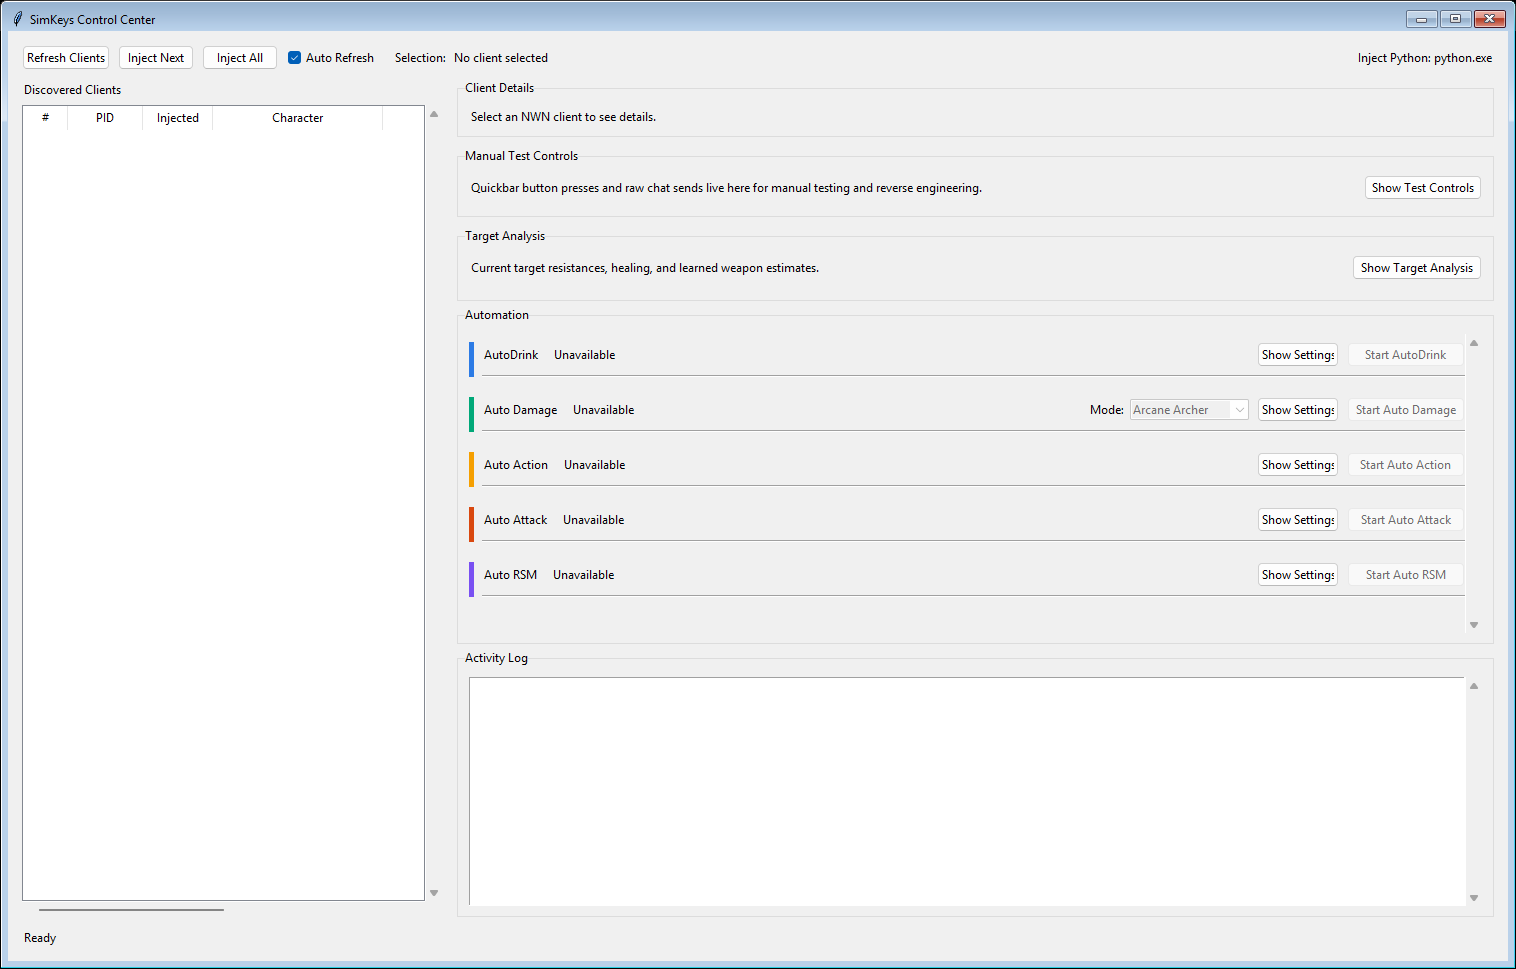
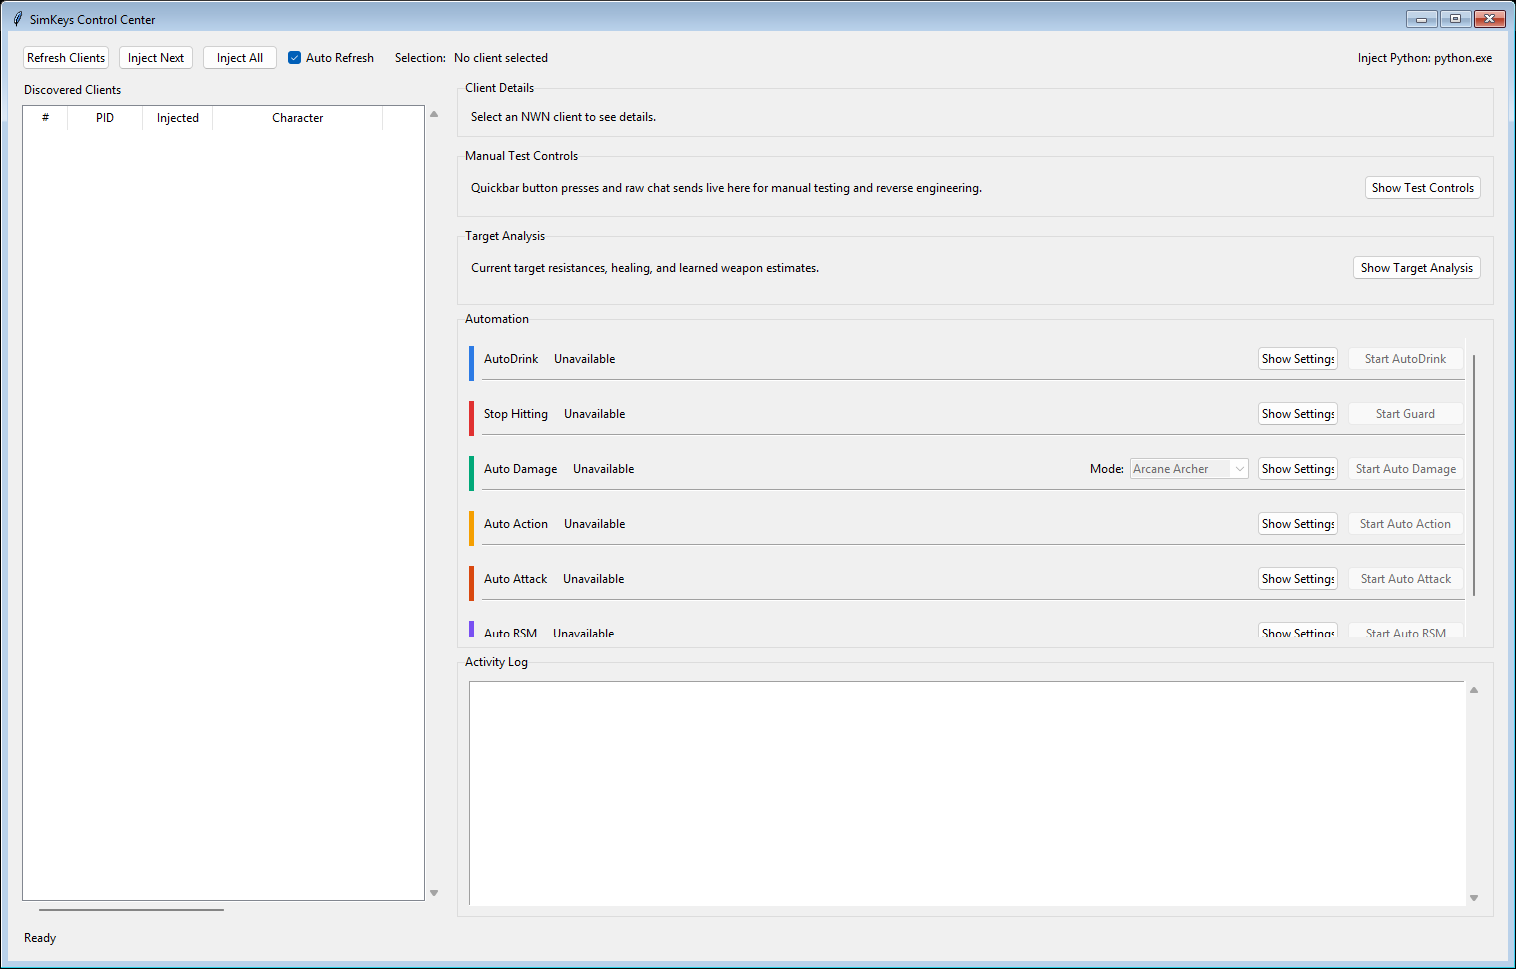
Add stop-hitting automation for area-kickback targets

diff --git a/src/simkeys_app/simkeys_script_host.py b/src/simkeys_app/simkeys_script_host.py
@@ -442,6 +442,174 @@ class AutoDrinkScript(ClientScriptBase):
         threading.Thread(target=clear_after_delay, name=f"AutoDrinkCooldown-{self.client.pid}", daemon=True).start()
 
 
+class StopHittingScript(ClientScriptBase):
+    script_id = "stop_hitting"
+
+    def __init__(self, client, config: Dict[str, object], host):
+        super().__init__(client, config, host)
+        self.db = hgx_data.load_default_database()
+        self.enabled = False
+        self.interrupting = False
+        self.interrupt_generation = 0
+        self.identity_wait_logged = False
+        self.unknown_targets: Set[str] = set()
+        self.protected_hits = 0
+        self.last_target = ""
+        self.last_damage_summary = ""
+        self.last_ignored_actor = ""
+
+    def on_start(self):
+        super().on_start()
+        self.enabled = True
+        self.interrupting = False
+        self.interrupt_generation = 0
+        self.identity_wait_logged = False
+        self.unknown_targets = set()
+        self.protected_hits = 0
+        self.last_target = ""
+        self.last_damage_summary = ""
+        self.last_ignored_actor = ""
+        self.set_status("Armed")
+        self.host.emit("info", f"{self.client.display_name}: Stop Hitting started", script_id=self.script_id)
+
+    def on_stop(self):
+        super().on_stop()
+        self.enabled = False
+        self.interrupting = False
+        self.interrupt_generation += 1
+        self.host.emit("info", f"{self.client.display_name}: Stop Hitting stopped", script_id=self.script_id)
+
+    def on_chat_line(self, sequence: int, text: str):
+        if not self.should_process(sequence) or not self.enabled:
+            return
+        if " damages " not in str(text or "").lower():
+            return
+
+        damage_line = hgx_combat.parse_damage_line(text)
+        if damage_line is None:
+            return
+
+        character_name = self._character_name()
+        if not character_name:
+            self.set_status("Waiting for character name")
+            if not self.identity_wait_logged:
+                self.identity_wait_logged = True
+                self.host.emit(
+                    "info",
+                    f"{self.host.client.display_name}: Stop Hitting is waiting for character identity before parsing damage lines",
+                    script_id=self.script_id,
+                )
+            return
+
+        character_key = hgx_combat.normalize_actor_name(character_name).lower()
+        if not self._damage_attacker_matches_character(damage_line.attacker, character_key):
+            self.last_ignored_actor = damage_line.attacker
+            return
+
+        record = self.db.lookup(damage_line.defender)
+        if record is None:
+            defender_key = damage_line.defender.lower()
+            if defender_key not in self.unknown_targets:
+                self.unknown_targets.add(defender_key)
+                self.host.emit(
+                    "info",
+                    f"{self.host.client.display_name}: Stop Hitting has no characters.d entry for '{damage_line.defender}'",
+                    script_id=self.script_id,
+                )
+            return
+
+        if not self.db.is_area_kickback(record.name):
+            if not self.interrupting:
+                self.set_status("Armed")
+            return
+
+        self.protected_hits += 1
+        self.last_target = record.name
+        self.last_damage_summary = self._damage_summary(damage_line)
+
+        if self.interrupting:
+            self.set_status(f"{record.name}: interrupting")
+            self.host.notify_state_changed()
+            return
+
+        slot = int(self.config.get("slot", 2))
+        page = _parse_quickbar_bank_page(self.config.get("page", 0))
+        trigger_name = self.host.format_slot(page, slot)
+        result = self.host.trigger_slot(slot, page=page)
+        self._begin_interrupt_cooldown()
+
+        self.set_status(f"{record.name}: drinking {trigger_name}")
+        self.host.emit(
+            "info",
+            (
+                f"{self.client.display_name}: Stop Hitting triggered on area kickback target='{record.name}' "
+                f"damage={self.last_damage_summary} potion={trigger_name} "
+                f"success={result['success']} rc={result['rc']} aux={result['aux_rc']} "
+                f"path={result['path']} err={result['err']}"
+            ),
+            script_id=self.script_id,
+        )
+        if bool(self.config.get("echo_console", True)):
+            self.host.send_console(
+                f"SimKeys stop-hitting {record.name}: drank {trigger_name} after {self.last_damage_summary}"
+            )
+
+    def _character_name(self) -> str:
+        live_name = (self.host.client.character_name or "").strip()
+        if live_name:
+            return live_name
+        cached_name = (self.client.character_name or "").strip()
+        if cached_name:
+            return cached_name
+        return ""
+
+    def _damage_summary(self, damage_line) -> str:
+        parts = [f"{component.amount} {component.type_name}" for component in damage_line.components]
+        typed = ", ".join(parts) if parts else "no typed components"
+        return f"{damage_line.total} ({typed})"
+
+    def _damage_attacker_matches_character(self, attacker: str, character_key: str) -> bool:
+        attacker_key = hgx_combat.normalize_actor_name(attacker).lower()
+        if not attacker_key or not character_key:
+            return False
+        if attacker_key == character_key:
+            return True
+
+        # HGX damage lines can prefix the actor with sources such as
+        # "Sneak Attack: Character". Only the final actor segment should be
+        # compared against the current player.
+        parts = [
+            hgx_combat.normalize_actor_name(part).lower()
+            for part in str(attacker or "").split(":")
+            if hgx_combat.normalize_actor_name(part)
+        ]
+        return bool(parts and parts[-1] == character_key)
+
+    def _begin_interrupt_cooldown(self):
+        self.interrupting = True
+        self.interrupt_generation += 1
+        generation = self.interrupt_generation
+        delay = max(float(self.config.get("cooldown_seconds", 3.0)), 0.1)
+
+        def clear_after_delay():
+            time.sleep(delay)
+            if generation != self.interrupt_generation:
+                return
+            self.interrupting = False
+            self.set_status("Armed")
+
+        threading.Thread(target=clear_after_delay, name=f"StopHittingCooldown-{self.client.pid}", daemon=True).start()
+
+    def get_state_details(self) -> dict:
+        return {
+            "protected_hits": self.protected_hits,
+            "last_target": self.last_target,
+            "last_damage_summary": self.last_damage_summary,
+            "interrupting": self.interrupting,
+            "last_ignored_actor": self.last_ignored_actor,
+        }
+
+
 class AutoAAScript(ClientScriptBase):
     script_id = "auto_aa"
     MODE_ARCANE_ARCHER = "Arcane Archer"
@@ -2926,6 +3094,26 @@ class ScriptManager:
             factory=AutoDrinkScript,
         )
         self.registry[autodrink.script_id] = autodrink
+
+        stop_hitting = ScriptDefinition(
+            script_id="stop_hitting",
+            name="Stop Hitting",
+            description=(
+                "Watch your outgoing damage and drink a healing potion if you hit a characters.d target marked "
+                'kickback="Area", interrupting further attacks without resuming them.'
+            ),
+            fields=[
+                ScriptField("slot", "Slot", "int", 2, minimum=1, maximum=12, step=1, width=4),
+                ScriptField("page", "Bank", "choice", "None", choices=["None", "Shift", "Control"], width=8),
+                ScriptField("cooldown_seconds", "Drink Time", "float", 3.0, minimum=0.1, maximum=10.0, step=0.1, width=6),
+                ScriptField("poll_interval", "Poll", "float", 0.10, minimum=0.05, maximum=2.0, step=0.05, width=6),
+                ScriptField("max_lines", "Batch", "int", 60, minimum=1, maximum=200, step=1, width=5),
+                ScriptField("echo_console", "Echo", "bool", True),
+                ScriptField("include_backlog", "Backlog", "bool", False),
+            ],
+            factory=StopHittingScript,
+        )
+        self.registry[stop_hitting.script_id] = stop_hitting
 
         auto_aa = ScriptDefinition(
             script_id="auto_aa",

diff --git a/src/simkeys_app/simkeys_hgx_data.py b/src/simkeys_app/simkeys_hgx_data.py
@@ -223,6 +223,7 @@ class CreatureRecord:
     direct_immunity: Tuple[Optional[int], ...]
     direct_resistance: Tuple[Optional[int], ...]
     direct_healing: Tuple[Optional[int], ...]
+    kickback: str = ""
 
 
 @dataclass(frozen=True)
@@ -371,6 +372,33 @@ class HgxCharacterDatabase:
         )
         self._effective_cache[cache_key] = resolved
         return resolved
+
+    def kickback_mode(self, creature_name: str) -> str:
+        record = self.lookup(creature_name)
+        if record is None:
+            return ""
+        return self._resolve_kickback_mode(record, set())
+
+    def is_area_kickback(self, creature_name: str) -> bool:
+        return self.kickback_mode(creature_name).lower() == "area"
+
+    def _resolve_kickback_mode(self, record: CreatureRecord, stack: set) -> str:
+        cache_key = record.name.lower()
+        if cache_key in stack:
+            return ""
+
+        direct = str(record.kickback or "").strip()
+        if direct:
+            return direct
+
+        if not record.base_name:
+            return ""
+
+        stack.add(cache_key)
+        base_record = self.lookup(record.base_name)
+        mode = self._resolve_kickback_mode(base_record, stack) if base_record is not None else ""
+        stack.remove(cache_key)
+        return mode
 
     def recommend_arcane_archer_damage(self, creature_name: str, elemental_dice: int) -> Optional[DamageRecommendation]:
         if not creature_name:
@@ -728,8 +756,15 @@ def load_character_database(source_dir: Optional[str] = None) -> HgxCharacterDat
             if not name:
                 continue
 
+            existing_record = records.get(name)
             base_name = (creature_node.get("base") or "").strip()
             character_type = CHARACTER_TYPE_NAME_TO_VALUE.get((creature_node.get("type") or "Normal").strip().lower(), 0)
+            kickback = (creature_node.get("kickback") or "").strip()
+            existing_kickback = str(existing_record.kickback or "").strip() if existing_record is not None else ""
+            if existing_kickback.lower() == "area" or kickback.lower() == "area":
+                kickback = "Area"
+            elif not kickback and existing_kickback:
+                kickback = existing_kickback
 
             immunity = _make_empty_optional_stats()
             resistance = _make_empty_optional_stats()
@@ -754,6 +789,7 @@ def load_character_database(source_dir: Optional[str] = None) -> HgxCharacterDat
                 direct_immunity=tuple(immunity),
                 direct_resistance=tuple(resistance),
                 direct_healing=tuple(healing),
+                kickback=kickback,
             )
 
     return HgxCharacterDatabase(directory, records)

diff --git a/src/simkeys_app/simkeys_gui.py b/src/simkeys_app/simkeys_gui.py
@@ -28,6 +28,13 @@ SCRIPT_CARD_LAYOUTS = {
         ],
         "advanced": ["poll_interval", "max_lines", "echo_console", "include_backlog"],
     },
+    "stop_hitting": {
+        "expanded": False,
+        "sections": [
+            ("Potion", ["page", "slot", "cooldown_seconds"]),
+        ],
+        "advanced": ["poll_interval", "max_lines", "echo_console", "include_backlog"],
+    },
     "auto_action": {
         "expanded": False,
         "sections": [
@@ -52,6 +59,7 @@ SCRIPT_CARD_LAYOUTS = {
 }
 SCRIPT_CARD_ACCENTS = {
     "autodrink": "#2c7be5",
+    "stop_hitting": "#e03131",
     "auto_aa": "#00a878",
     "auto_action": "#f59f00",
     "auto_attack": "#d9480f",
@@ -189,6 +197,8 @@ class ScriptCard:
         self._apply_expanded_state()
 
     def _toggle_button_text(self, running: bool) -> str:
+        if self.definition.script_id == "stop_hitting":
+            return "Stop Guard" if running else "Start Guard"
         action = "Stop" if running else "Start"
         return f"{action} {self.definition.name}"
 
@@ -392,7 +402,7 @@ class ScriptCard:
     def _load_standard_config(self, config):
         for field, var, _widget in self.vars.values():
             value = config.get(field.key, field.default)
-            if self.definition.script_id == "autodrink" and field.key == "page":
+            if self.definition.script_id in ("autodrink", "stop_hitting") and field.key == "page":
                 if isinstance(value, str) and value.strip() in BANK_PAGE_TO_VALUE:
                     var.set(value.strip())
                 else:

diff --git a/README.md b/README.md
@@ -13,7 +13,7 @@ This public repository contains the SimKeys source, a bundled hook DLL, build fi
 - Triggers quickbar slots directly through game functions, including Base, Shift, and Control quickbar banks.
 - Sends chat through an unfocused client path.
 - Provides a desktop GUI for multi-client script control.
-- Includes automations for AutoDrink, Auto Damage, Auto Attack, Auto Action, and Auto RSM.
+- Includes automations for AutoDrink, Stop Hitting, Auto Damage, Auto Attack, Auto Action, and Auto RSM.
 
 ## Requirements
 
@@ -111,6 +111,12 @@ The build wrapper rebuilds the x86 Release DLL and copies it into `bin\SimKeysHo
 ## Data
 
 The repository includes `data\characters.d\` so Auto Damage works out of the box with the packaged dataset.
+
+## Automation Notes
+
+- Auto Damage uses `characters.d` resistances, immunities, healing, and weapon-learning data to choose safe damage.
+- Stop Hitting watches your outgoing damage and drinks the configured healing potion if you hit a `characters.d` creature marked `kickback="Area"`.
+- Stop Hitting intentionally does not resume attacking after drinking, so the potion acts as an interrupt rather than a heal-and-continue loop.
 
 ## License
 